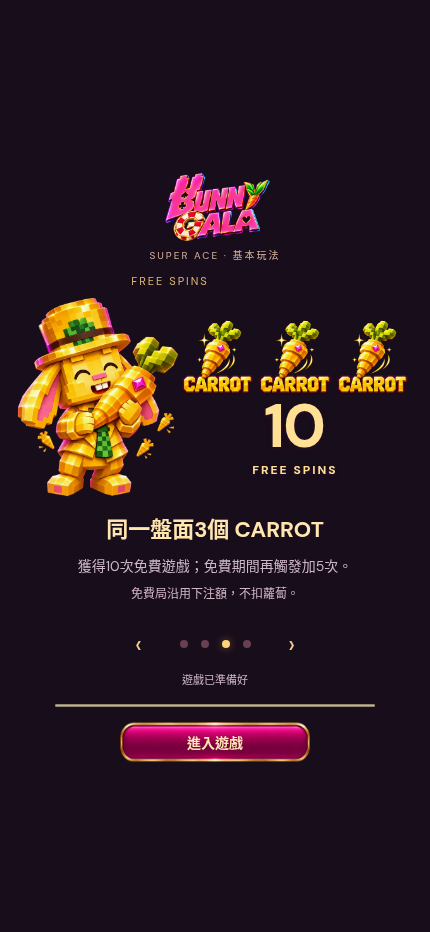
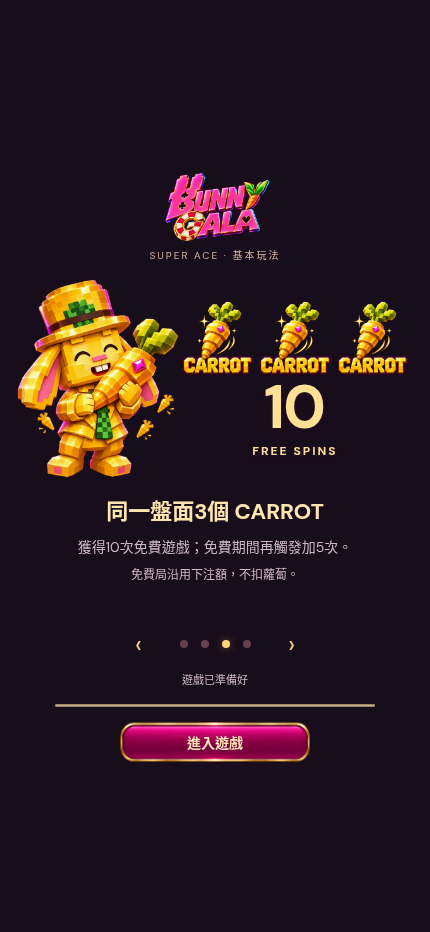
Remove entire English headings from loading lessons

Changed region(s): [[0.0302, 0.28, 0.9674, 0.6534], [0.393, 0.28, 0.4837, 0.3112], [0.3326, 0.28, 0.3628, 0.3112]]

diff --git a/super-ace-prototype/dist/loading-guide.js b/super-ace-prototype/dist/loading-guide.js
@@ -1,9 +1,9 @@
-import {assetURL,loadImage} from './asset-cache.js?v=session-speed-v1';
+import {assetURL,loadImage} from './asset-cache.js?v=guide-no-title-v1';
 const slides=[
- {key:'ways',tag:'WAYS WIN',title:'由左開始，連續三列中獎',body:'相同符號由最左列起，至少連續出現3列。',note:'不必在同一行。',mascot:'ways',art:'ways'},
- {key:'gold',tag:'GOLD TO WILD',title:'金牌中獎後，翻成 WILD',body:'天使替代普通牌；惡魔還能擴散。',note:'WILD不替代CARROT。',mascot:'gold-k',art:'wild'},
- {key:'carrot',tag:'FREE SPINS',title:'同一盤面3個 CARROT',body:'獲得10次免費遊戲；免費期間再觸發加5次。',note:'免費局沿用下注額，不扣蘿蔔。',mascot:'carrot',art:'carrot'},
- {key:'cascade',tag:'CASCADE',title:'再中獎，倍率繼續升',body:'中獎牌消除、補入新牌；連鎖中獎提升倍率。',note:'普通×1／×2／×3／×5；免費為雙倍。',mascot:'ways',art:'cascade'}
+ {key:'ways',title:'由左開始，連續三列中獎',body:'相同符號由最左列起，至少連續出現3列。',note:'不必在同一行。',mascot:'ways',art:'ways'},
+ {key:'gold',title:'金牌中獎後，翻成 WILD',body:'天使替代普通牌；惡魔還能擴散。',note:'WILD不替代CARROT。',mascot:'gold-k',art:'wild'},
+ {key:'carrot',title:'同一盤面3個 CARROT',body:'獲得10次免費遊戲；免費期間再觸發加5次。',note:'免費局沿用下注額，不扣蘿蔔。',mascot:'carrot',art:'carrot'},
+ {key:'cascade',title:'再中獎，倍率繼續升',body:'中獎牌消除、補入新牌；連鎖中獎提升倍率。',note:'普通×1／×2／×3／×5；免費為雙倍。',mascot:'ways',art:'cascade'}
 ];
 const image=(src,cls='',alt='')=>`<img class="${cls}" src="${assetURL(src)}" alt="${alt}">`;
 function diagram(type){
@@ -17,7 +17,7 @@ export function createLoadingGuide({root,onEnter=()=>{}}={}){
  root.innerHTML=`<div class="guide-brand">${image('assets/bunny-gala-transparent.png','','Bunny Gala')}<small>SUPER ACE · 基本玩法</small></div><div id="guideContent" class="guide-content"></div><nav class="guide-navigation" aria-label="玩法介紹頁面"><button id="guidePrev" aria-label="上一張">‹</button><div class="guide-dots">${slides.map((s,i)=>`<button data-guide="${i}" aria-label="第${i+1}張：${s.title}"></button>`).join('')}</div><button id="guideNext" aria-label="下一張">›</button></nav><div class="guide-loading"><p id="loadingText" role="status">正在準備遊戲…</p><progress id="loadingProgress" max="1" value="0" aria-label="遊戲圖片載入進度"></progress><button id="enterGame" class="btn primary" disabled>準備中…</button><button id="retryAssets" class="btn" hidden>重新載入圖片</button></div>`;
  const q=s=>root.querySelector(s);
  function restart(){clearInterval(timer);timer=setInterval(()=>{if(!closed&&!document.hidden)show((index+1)%slides.length)},5500)}
- async function show(next){index=(next+slides.length)%slides.length;const token=++revision,s=slides[index];const src='assets/art/v8/loading-bunny-'+s.mascot+'.webp';let mascotReady=true;try{await loadImage(src,{priority:'high'})}catch{mascotReady=false}if(token!==revision||closed)return;q('#guideContent').innerHTML=`<p class="guide-tag">${s.tag}</p><div class="guide-art">${mascotReady?`<img class="guide-mascot" src="${src}" alt="Bunny Gala 金帽兔子介紹玩法">`:''}<div class="guide-diagram">${diagram(s.art)}</div></div><h1>${s.title}</h1><p class="guide-body">${s.body}</p><p class="guide-note">${s.note}</p>`;q('#guideContent').dataset.slide=s.key;root.querySelectorAll('[data-guide]').forEach(b=>b.setAttribute('aria-current',String(Number(b.dataset.guide)===index)))}
+ async function show(next){index=(next+slides.length)%slides.length;const token=++revision,s=slides[index];const src='assets/art/v8/loading-bunny-'+s.mascot+'.webp';let mascotReady=true;try{await loadImage(src,{priority:'high'})}catch{mascotReady=false}if(token!==revision||closed)return;q('#guideContent').innerHTML=`<div class="guide-art">${mascotReady?`<img class="guide-mascot" src="${src}" alt="Bunny Gala 金帽兔子介紹玩法">`:''}<div class="guide-diagram">${diagram(s.art)}</div></div><h1>${s.title}</h1><p class="guide-body">${s.body}</p><p class="guide-note">${s.note}</p>`;q('#guideContent').dataset.slide=s.key;root.querySelectorAll('[data-guide]').forEach(b=>b.setAttribute('aria-current',String(Number(b.dataset.guide)===index)))}
  function go(delta){show(index+delta);restart()}
  q('#guidePrev').onclick=()=>go(-1);q('#guideNext').onclick=()=>go(1);root.querySelectorAll('[data-guide]').forEach(b=>b.onclick=()=>{show(Number(b.dataset.guide));restart()});
  function enter(){if(!ready||closed)return;closed=true;clearInterval(timer);revision++;onEnter()}

diff --git a/super-ace-prototype/dist/app.js b/super-ace-prototype/dist/app.js
@@ -1,14 +1,14 @@
-import {createLoadingGuide} from './loading-guide.js?v=session-speed-v1';
-import {assetURL,loadImage,prepareImages,presentationSources,onAssetProgress,assetStats} from './asset-cache.js?v=session-speed-v1';
-import {createGameMusic} from './music.js?v=session-speed-v1';
-import {createRoundHistory} from './round-history.js?v=session-speed-v1';
-import {prepareCardAssets,preparePlanAssets} from './card-assets.js?v=session-speed-v1';
-import {createCarrotScenes} from './carrot-scenes.js?v=session-speed-v1';
-import {compactMoney,exactMoney,betStep,clampBet,ratioBets,parseMoney,validBet,createSessionTotal} from './money.js?v=session-speed-v1';
-import {createPlaybackClock} from './playback-clock.js?v=session-speed-v1';
-import {createEffects,ANIMATION_DEFINITIONS} from './effects.js?v=session-speed-v1';
-import {buildRoundPlan,applyBonus,settleRound,createJournal} from './round-plan.js?v=session-speed-v1';
-import {createEngine,BASE_MULTIPLIERS,FREE_MULTIPLIERS,DEFAULT_PAYTABLE,MATH_VERSION,BET_UNIT,maxBet} from './engine.js?v=session-speed-v1';
+import {createLoadingGuide} from './loading-guide.js?v=guide-no-title-v1';
+import {assetURL,loadImage,prepareImages,presentationSources,onAssetProgress,assetStats} from './asset-cache.js?v=guide-no-title-v1';
+import {createGameMusic} from './music.js?v=guide-no-title-v1';
+import {createRoundHistory} from './round-history.js?v=guide-no-title-v1';
+import {prepareCardAssets,preparePlanAssets} from './card-assets.js?v=guide-no-title-v1';
+import {createCarrotScenes} from './carrot-scenes.js?v=guide-no-title-v1';
+import {compactMoney,exactMoney,betStep,clampBet,ratioBets,parseMoney,validBet,createSessionTotal} from './money.js?v=guide-no-title-v1';
+import {createPlaybackClock} from './playback-clock.js?v=guide-no-title-v1';
+import {createEffects,ANIMATION_DEFINITIONS} from './effects.js?v=guide-no-title-v1';
+import {buildRoundPlan,applyBonus,settleRound,createJournal} from './round-plan.js?v=guide-no-title-v1';
+import {createEngine,BASE_MULTIPLIERS,FREE_MULTIPLIERS,DEFAULT_PAYTABLE,MATH_VERSION,BET_UNIT,maxBet} from './engine.js?v=guide-no-title-v1';
 const $=s=>document.querySelector(s),$$=s=>[...document.querySelectorAll(s)];
 const reviewMode=new URLSearchParams(location.search).has('review');const sessionStorageAdapter=reviewMode?{getItem:()=>null,setItem:()=>{}}:localStorage;const engine=createEngine(),journal=createJournal(sessionStorageAdapter),saved=journal.read();
 const legacy=(()=>{try{return reviewMode?{}:JSON.parse(localStorage.getItem('gala-carrot-v1'))||{}}catch{return{}}})();

diff --git a/super-ace-prototype/dist/index.html b/super-ace-prototype/dist/index.html
@@ -14,9 +14,9 @@
 <link rel="stylesheet" href="free-rabbit.css?v=smooth-v1">
 <link rel="stylesheet" href="smooth.css?v=smooth-v1">
 <link rel="stylesheet" href="audio-controls.css?v=audio-guide-v1">
-<link rel="stylesheet" href="roll-controls.css?v=session-speed-v1">
-<link rel="stylesheet" href="phone-layout.css?v=session-speed-v1">
-<link rel="stylesheet" href="loading-guide.css?v=session-speed-v1">
+<link rel="stylesheet" href="roll-controls.css?v=guide-no-title-v1">
+<link rel="stylesheet" href="phone-layout.css?v=guide-no-title-v1">
+<link rel="stylesheet" href="loading-guide.css?v=guide-no-title-v1">
 </head>
 <body>
 <section id="assetLoading" class="asset-loading" role="region" aria-label="玩法介紹與遊戲載入"><div class="loading-brand"><img src="assets/runtime/bunny-gala-transparent-34aa9c81-display768w.webp" alt="Bunny Gala"></div><p id="loadingText">正在準備遊戲…</p><progress id="loadingProgress" max="1" value="0" aria-label="遊戲圖片載入進度"></progress><button id="retryAssets" hidden>重新載入圖片</button></section>
@@ -43,6 +43,6 @@
 <dialog id="modal"><div class="modal-head"><span class="eyebrow">BUNNY GALA</span><button id="closeModal" aria-label="關閉">×</button></div><div id="modalContent"></div></dialog>
 <dialog id="connectionDialog"><h2>牌局已暫停</h2><p>連線恢復後，繼續同一局已保存的結果。</p></dialog>
 <div class="toast" id="toast" role="status"></div>
-<script type="module" src="app.js?v=session-speed-v1"></script>
+<script type="module" src="app.js?v=guide-no-title-v1"></script>
 </body>
 </html>

diff --git a/super-ace-prototype/dist/music.js b/super-ace-prototype/dist/music.js
@@ -1,4 +1,4 @@
-import {AUDIO_CATALOG} from './audio-catalog.js?v=session-speed-v1';
+import {AUDIO_CATALOG} from './audio-catalog.js?v=guide-no-title-v1';
 const TRACKS=Object.fromEntries(AUDIO_CATALOG.tracks.map(t=>[t.id,t]));
 const LEVELS={intro:.8,lobby:.5,bgm_main:.6,bgm_bonus:.6,card_shuffle:.7,reel_spin:.6,reel_stop:.7,bet_change:.6,turbo_spin:.6,auto_spin:.6,no_win:.5,win_normal:.7,win_countup:.6,coins:.6,golden_card:.8,golden_eliminate:.8,little_joker:.7,big_joker:.8,cascade:.7,multiplier:.8,scatter:.7,scatter_near:.7,freespin_trigger:.9,freespin_retrigger:.8,freespin_bigwin:.9,freespin_result:.7,return_base:.6,win_big:.8,mega_win:.9,ultimate_win:1,jackpot:1,paytable_open:.6,settings_open:.6,pause:.6,quit:.6,no_coins:.7,buy_bonus:.8};
 const MUSIC_CUES=new Set(['intro','win_normal','win_big','mega_win','ultimate_win','jackpot','freespin_bigwin']);

diff --git a/super-ace-prototype/dist/card-assets.js b/super-ace-prototype/dist/card-assets.js
@@ -1,4 +1,4 @@
-import {prepareImages} from './asset-cache.js?v=session-speed-v1';
+import {prepareImages} from './asset-cache.js?v=guide-no-title-v1';
 const symbols=['J','Q','K','A','S','H','C','D'];
 const paths=symbols.flatMap(s=>['normal','gold'].map(t=>`assets/art/card-${t}-${s}.png`)).concat(['assets/art/carrot-bonus.png','assets/art/wild-angel-fitted.svg','assets/art/wild-devil-fitted.svg','assets/art/card-gold-overlay.png','assets/back.png']);
 export function prepareCardAssets(){return prepareImages(paths)}

diff --git a/super-ace-prototype/dist/asset-cache.js b/super-ace-prototype/dist/asset-cache.js
@@ -1,4 +1,4 @@
-import {ASSET_MAP} from './asset-map.js?v=session-speed-v1';
+import {ASSET_MAP} from './asset-map.js?v=guide-no-title-v1';
 const images=new Map(),pending=new Map(),queue=[];let active=0,completed=0;const listeners=new Set();
 export const assetURL=src=>ASSET_MAP[src.split('?')[0]]??src;
 const notify=()=>listeners.forEach(fn=>fn({completed,total:completed+pending.size,active}));

diff --git a/super-ace-prototype/dist/effects.js b/super-ace-prototype/dist/effects.js
@@ -1,4 +1,4 @@
-import {assetURL,prepareImages} from './asset-cache.js?v=session-speed-v1';
+import {assetURL,prepareImages} from './asset-cache.js?v=guide-no-title-v1';
 import {createPresentationQuality} from './presentation-quality.js?v=comfort-v1';
 import {compactMoney} from './money.js?v=math-v1';
 export const ANIMATION_DEFINITIONS = Object.freeze([

diff --git a/ART/SuperAce/26_Phone_Layout_Loading_Guide/README.md b/ART/SuperAce/26_Phone_Layout_Loading_Guide/README.md
@@ -21,3 +21,5 @@
 `npm test`29passing checks. `qa/portrait-layout.cjs` six sizes320×568 through430×932,20portrait cards, per-axis even gutters, dealer alignment, accessible44pxminimum keys, no document scrolling. `qa/desktop-fit.cjs` five desktop/touch configurations. `qa/loading-guide.cjs` four decoded pages on three touch sizes, entry/replay preserves wallet, mandatory manual entry on both first/returning visits. See prototype QA sources for reproducible checks.
 
 2026-11-10 revision: removed01–04 labels; gold-hat rabbit now holds the approved gold K card. Updated independent PNG master and runtime WebP.
+
+Revision: remove the entire upper English lesson headings (WAYS WIN / GOLD TO WILD / FREE SPINS / CASCADE), rather than only their numbers. Keep the illustrations and Chinese instructional copy. Updated screenshots and browser assertion for absence of the heading element.
